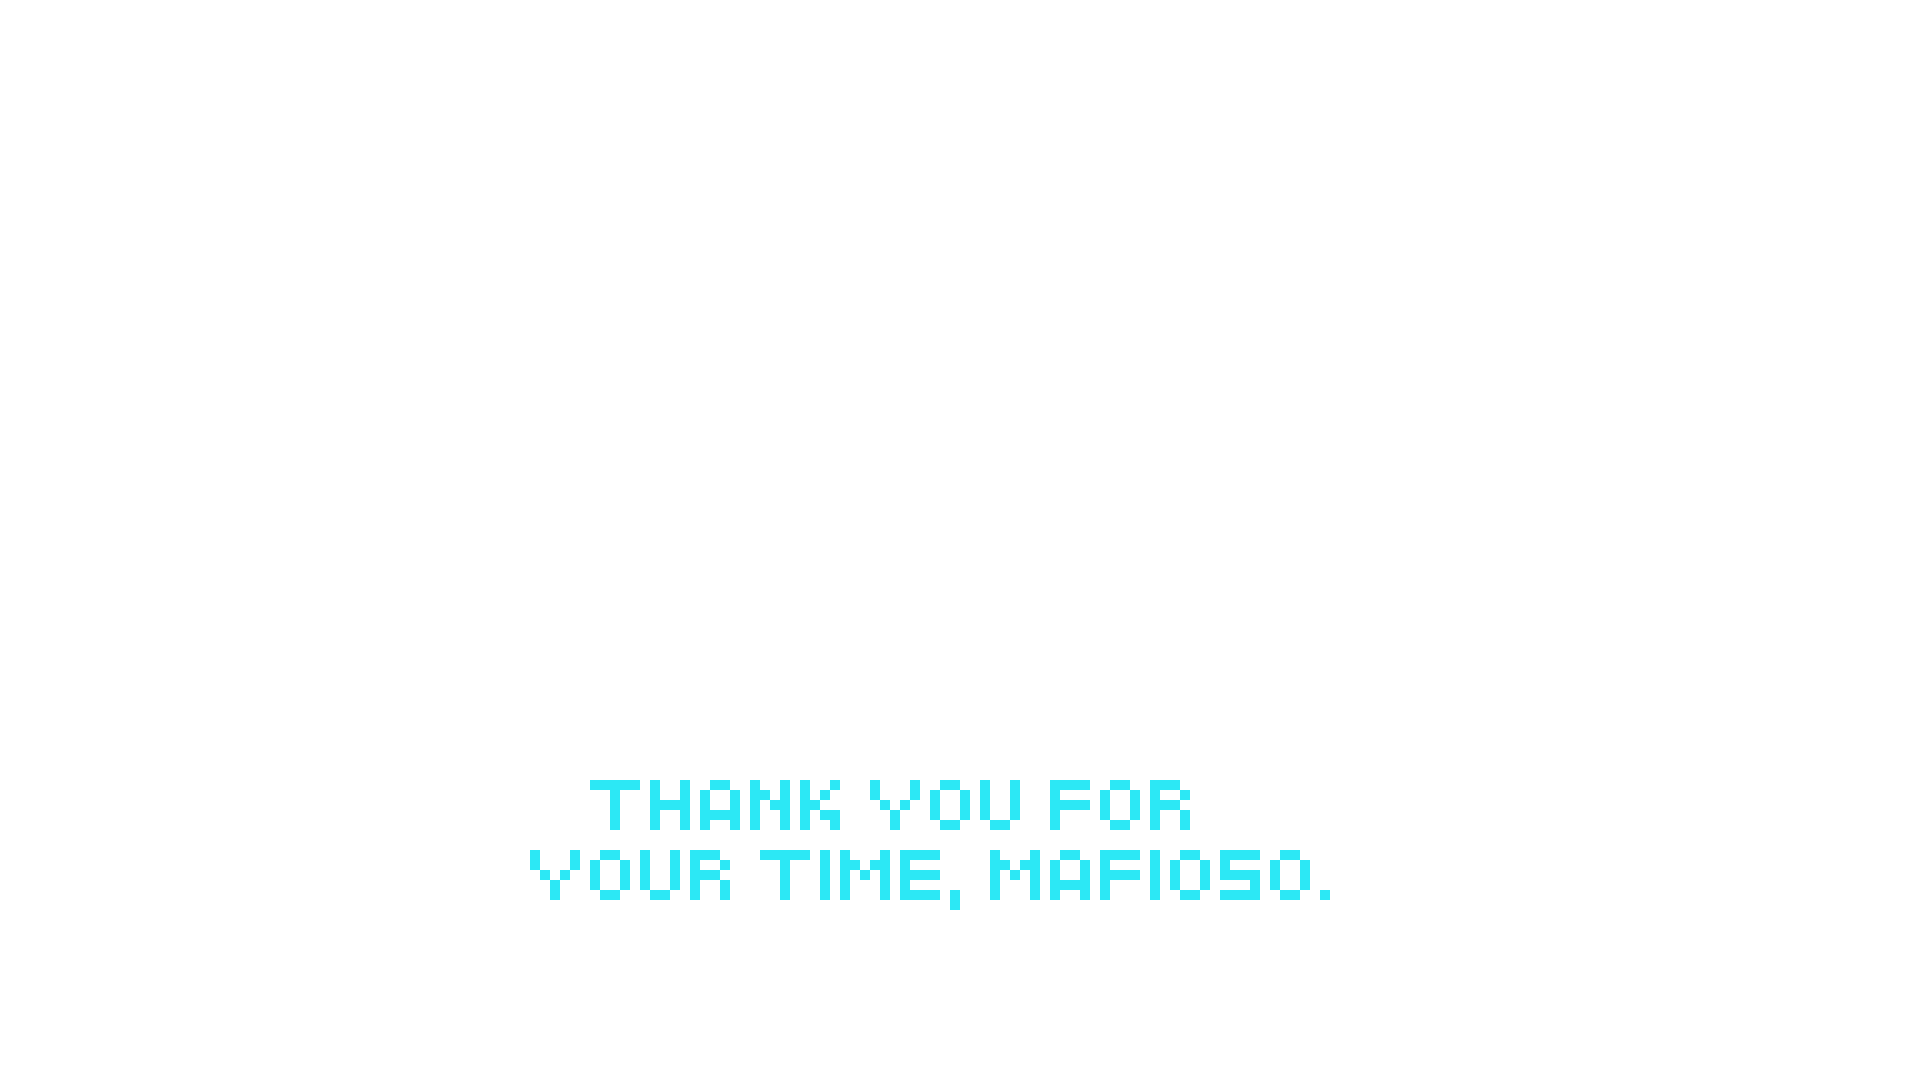
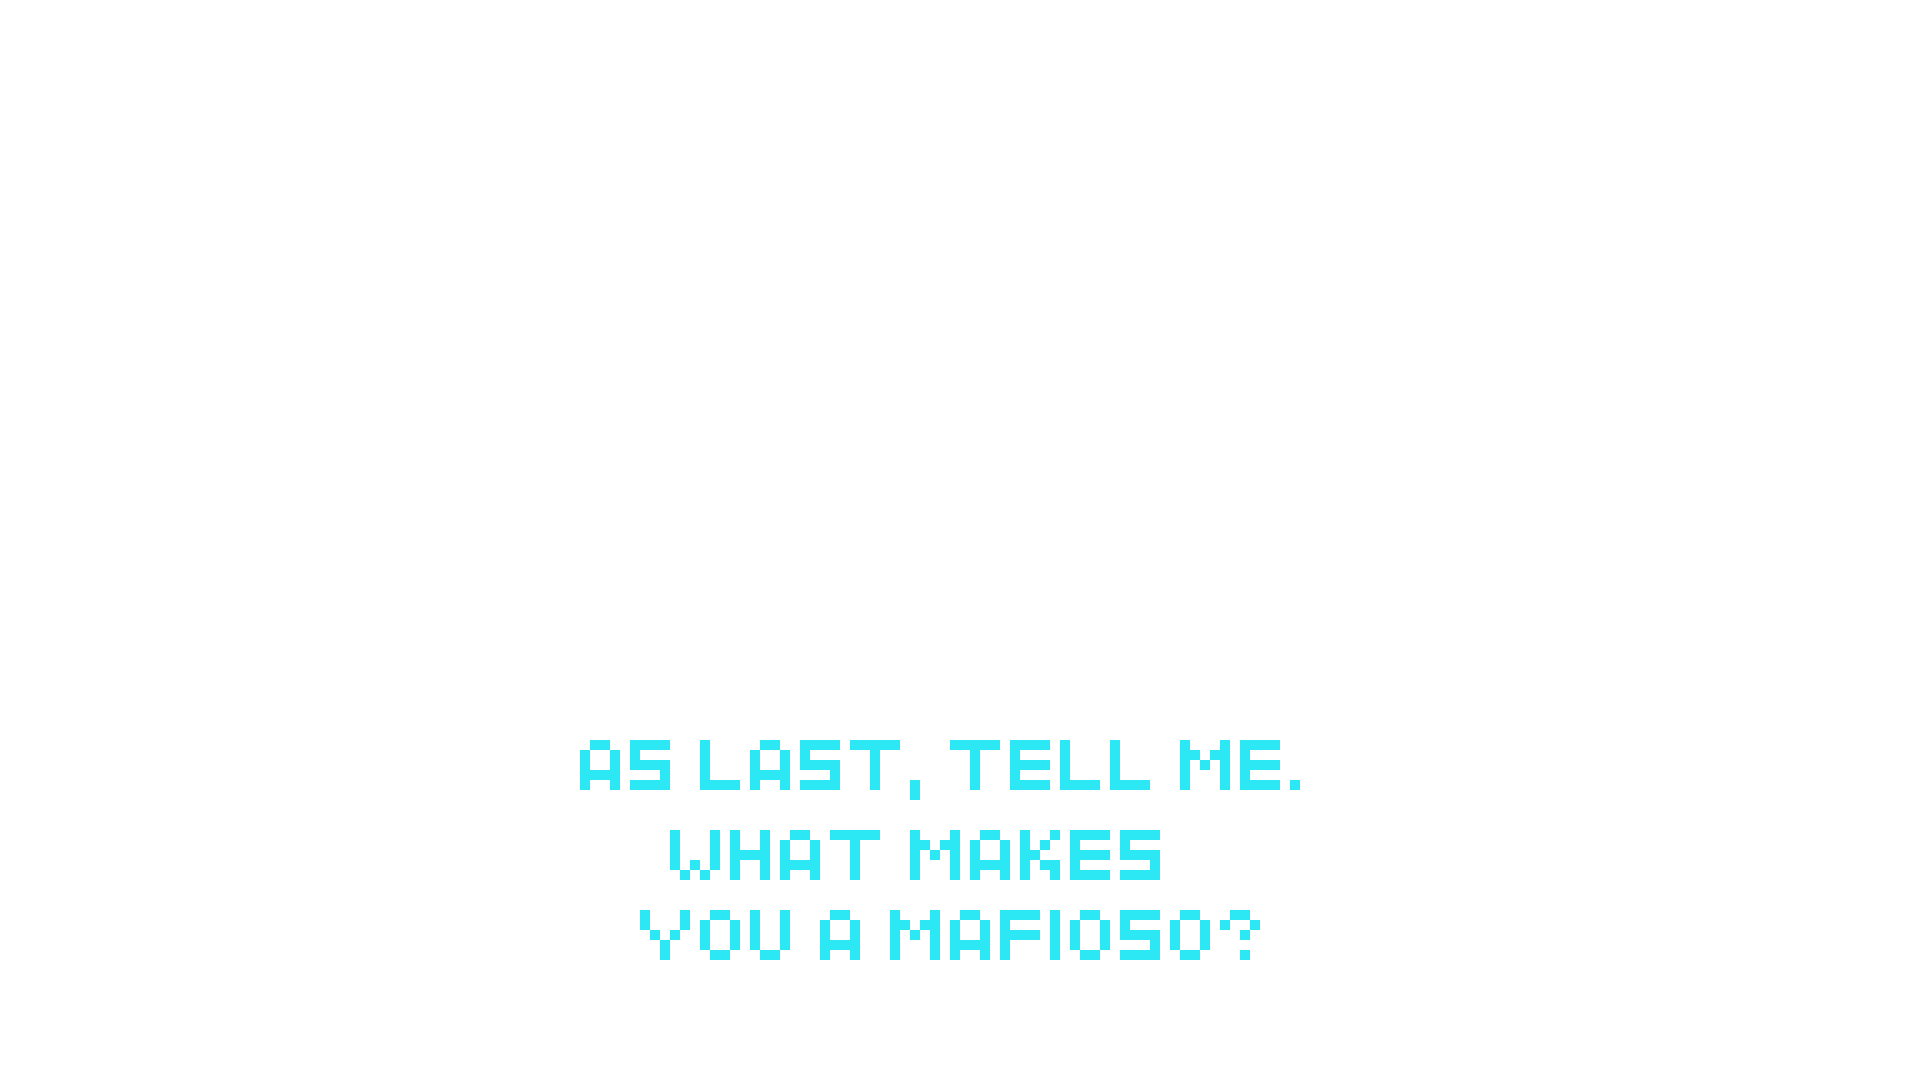
feat: update assets

Changed region(s): [[0.2812, 0.6722, 0.6875, 0.8861]]

diff --git a/src/App.js b/src/App.js
@@ -3,8 +3,9 @@ import './App.css';
 // import textBox from './img/text-box.png';
 import capo from './img/capo.png';
 import animatedTextBox from './img/textBox.gif';
+import textBoxHandlerInput from './img/left_dia_box.png';
 import init from './img/initiate.png';
-import contBtn from './img/contBtn.png';
+// import contBtn from './img/contBtn.png';
 import message1 from './img/text-1.png';
 import message2 from './img/text-2.png';
 import message3 from './img/text-3.png';
@@ -22,6 +23,7 @@ import message14 from './img/text-14.png';
 import message15 from './img/text-15.png';
 import message16 from './img/text-16.png';
 import message17 from './img/text-17.png';
+import message18 from './img/text-18.png';
 
 function App() {
   const [currentMessage, setCurrentMessage] = useState(1);
@@ -82,8 +84,8 @@ function App() {
       if (e.key === 'Enter') {
         continueBtn();
       } 
-      document.getElementById('contBtn').classList.remove('disable');
-      document.getElementById('contBtn').classList.add('animate-flicker');
+      // document.getElementById('contBtn').classList.remove('disable');
+      // document.getElementById('contBtn').classList.add('animate-flicker');
     }
   };
 
@@ -96,7 +98,7 @@ function App() {
       document.getElementById('msg1').classList.remove('hidden');
     },2000)
     setTimeout(() => {
-      document.getElementById('contBtn').classList.remove('hidden');
+      // document.getElementById('contBtn').classList.remove('hidden');
     },5000);
   }, []);
 
@@ -123,26 +125,26 @@ function App() {
       <img id='msg15' src={message15} alt='' className='overlay hidden' />
       <img id='msg16' src={message16} alt='' className='overlay hidden' />
       <img id='msg17' src={message17} alt='' className='overlay hidden' />
-
+      <img id='msg17' src={message18} alt='' className='overlay hidden' />
 
       <img
-        src={contBtn}
+        src={null}
         alt=''
         id='contBtn'
-        className={`overlay ${currentMessage > 13 || currentMessage === 1 ? 'hidden' : 'show animate-flicker'}`}
+        className={`overlay ${currentMessage > 14 || currentMessage === 1 ? 'hidden' : 'hidden'}`}
         onClick={continueBtn}
       />
       <img
-        src={textBoxHandler}
+        src={textBoxHandlerInput}
         id='inputBoxBg'
         alt=''
-        className={`overlay-flip input-box  ${currentMessage > 6 && currentMessage <= 13 ? 'show' : 'hidden'}`}
+        className={`overlay-flip input-box  ${currentMessage > 6 && currentMessage <= 14 ? 'show' : 'hidden'}`}
       />
       <input
         type='text'
         id='inputBox'
         name='inputBox'
-        className={`input-overlay ${currentMessage > 6 && currentMessage <= 13 ? 'show' : 'hidden'}`}
+        className={`input-overlay ${currentMessage > 6 && currentMessage <= 14 ? 'show' : 'hidden'}`}
         placeholder='Enter Here'
         onKeyDown={handleKeydown}
       ></input>

diff --git a/src/index.css b/src/index.css
@@ -45,17 +45,13 @@ html {
     right: 0;
     height: 100%;
     width: 100%;
-    -webkit-transform: scaleX(-1);
-    transform: scaleX(-1);
-    -webkit-filter: hue-rotate(180deg);
-    filter: hue-rotate(180deg);
 }
 
 .input-overlay {
     position: absolute;
     top: 24%;
     bottom: 0;
-    left: 31%;
+    left: 28%;
     right: 0;
     width: 41%;
     height: 10%;
